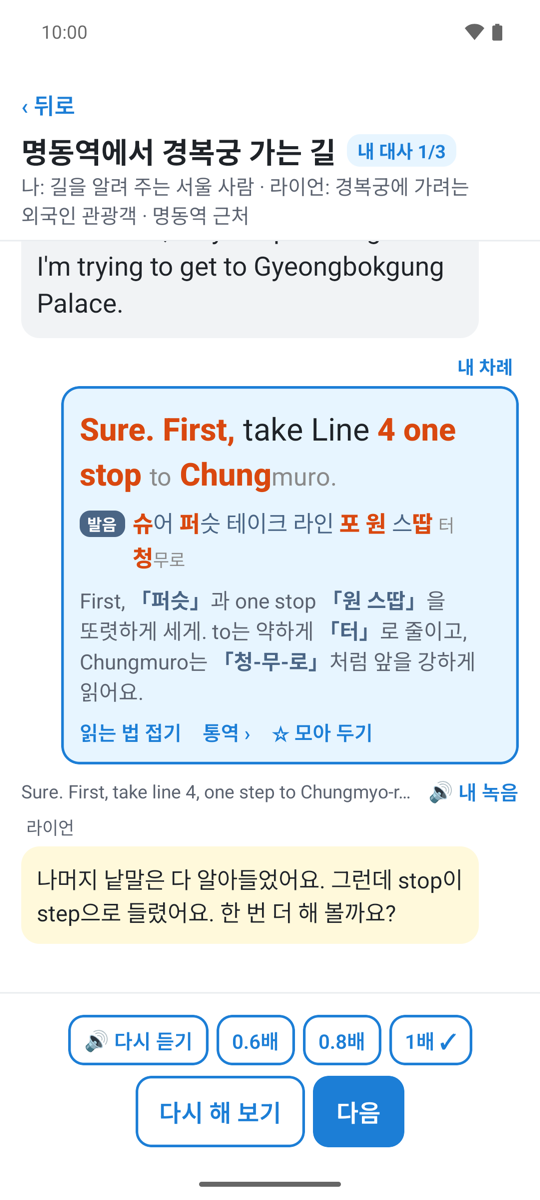
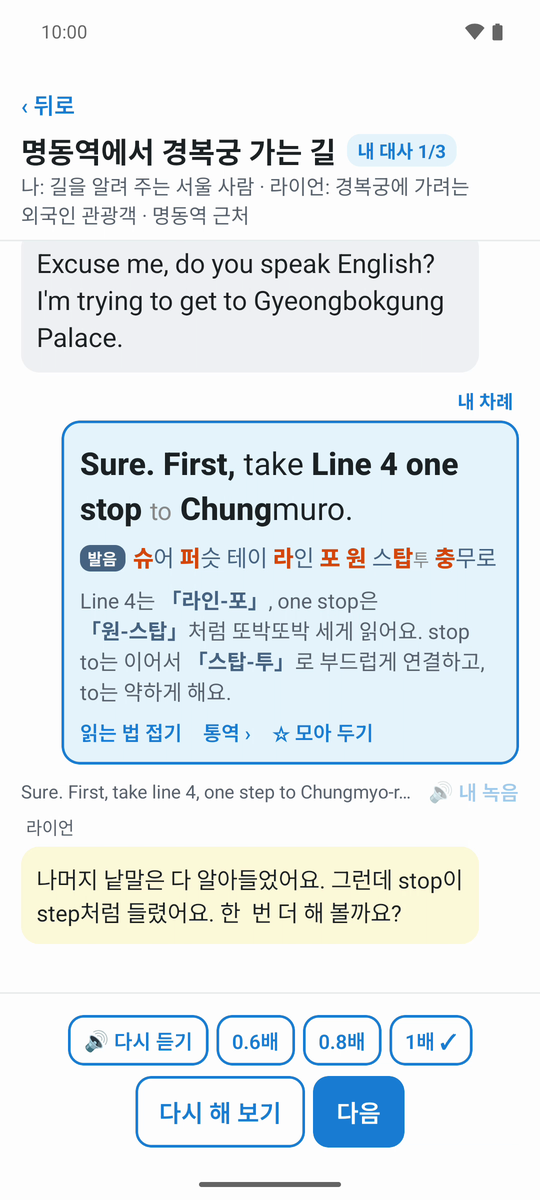
docs: retake the README role-play screenshots after PR #73
PR #73 drew the English line's stressed syllables in bold black
instead of orange, so the three-line screenshot showed the old look.
Both role-play shots were taken again from the same emulator run on
an empty test server (the directions list scene), shrunk to 540x1200
like the others.

The feedback shot is a frame from the scrcpy recording after Ryan's
reply ended, so it shows 「다시 해 보기」 and 「다음」 as before; a
screenshot taken a few seconds earlier caught the gray 「평가하고
있어요」 bar. At full size the frame matched a screenshot's text.

The README alt text now says the word "sounded like" step, as the app
says now (「step처럼 들렸어요」).

Refs: docs/todo/20261109_08_todo_readme_three_lines_screenshot.md

diff --git a/README.md b/README.md
@@ -33,7 +33,7 @@
 
 | 첫 화면 | 대화 중 내 차례 | 녹음 평가 |
 |---|---|---|
-| <img src="docs/images/home.png" width="240" alt="첫 화면: 라이언이 인사하고, 대화 연습하기, 자유 대화, 복습하기 카드가 있다"> | <img src="docs/images/roleplay-three-lines.png" width="240" alt="대화 중 내 차례: 제 대사를 영어, 한글 발음, 읽는 법의 세 줄로 보여 준다"> | <img src="docs/images/roleplay-feedback.png" width="240" alt="녹음 평가: 받아쓴 말을 대사와 견주고, 라이언이 stop이 step으로 들렸다고 짚는다"> |
+| <img src="docs/images/home.png" width="240" alt="첫 화면: 라이언이 인사하고, 대화 연습하기, 자유 대화, 복습하기 카드가 있다"> | <img src="docs/images/roleplay-three-lines.png" width="240" alt="대화 중 내 차례: 제 대사를 영어, 한글 발음, 읽는 법의 세 줄로 보여 준다"> | <img src="docs/images/roleplay-feedback.png" width="240" alt="녹음 평가: 받아쓴 말을 대사와 견주고, 라이언이 stop이 step처럼 들렸다고 짚는다"> |
 | 라이언이 인사하고 무엇을 연습할지 묻습니다. | 제 대사를 영어, 한글 발음, 읽는 법의 세 줄로 봅니다. 세게 읽을 곳은 굵은 주황 글자입니다. | 맥이 받아쓴 말을 대사와 견주고, 라이언이 다르게 들린 낱말을 짚습니다. |
 
 화면은 시험용 빈 데이터로 띄운 에뮬레이터에서 찍었습니다. 상황은 목록에 미리 써 둔 「명동역에서 경복궁 가는 길」이고, 평가 화면의 녹음은 시험용으로 만든 것입니다.

diff --git a/docs/todo/20261109_08_todo_readme_three_lines_screenshot.md b/docs/todo/20261109_08_todo_readme_three_lines_screenshot.md
@@ -1,0 +1,16 @@
+# TODO: README의 세 줄 화면 그림을 새 모양으로 다시 찍기
+
+> 작성: 2026-11-09 (english-line-black 카드)
+> 상태: **완료** (2026-11-09 demo-video 카드. 세 줄 그림과, 같은 녹화의 녹음 평가 그림을 PR #73 뒤의 앱으로 다시 찍었다)
+
+## 할 일
+
+PR #73(세 줄의 영어 줄은 굵기로만 강세 표시)이 머지되면 `docs/images/roleplay-three-lines.png`가 옛 모양이 된다. 이 그림은 영어 줄의 센 음절이 짙은 주황이다. 새 모양은 영어 줄 센 음절이 굵은 검정이고, 약한 음절은 작은 회색, 한글 발음 줄의 센 글자만 주황이다.
+
+- README의 세 화면 그림 가운데 두 번째(`README.md`의 그림 표)가 이 그림을 쓴다.
+- 처음 찍은 방법(go-public-prep devlog): demo-video 카드가 빈 데이터의 시험 서버와 에뮬레이터로 목록 상황을 찍어 540×1200으로 줄였다. 같은 방법으로 다시 찍는다.
+- main 세션이 PR #73 머지 뒤 demo-video 카드에 시연 영상 재녹화를 맡기기로 했다. 그때 이 그림도 함께 다시 찍으면 된다.
+
+## 끝내는 커밋
+
+새 그림을 넣는 커밋에 이 파일의 상태 줄을 완료로 고쳐 함께 넣는다.
